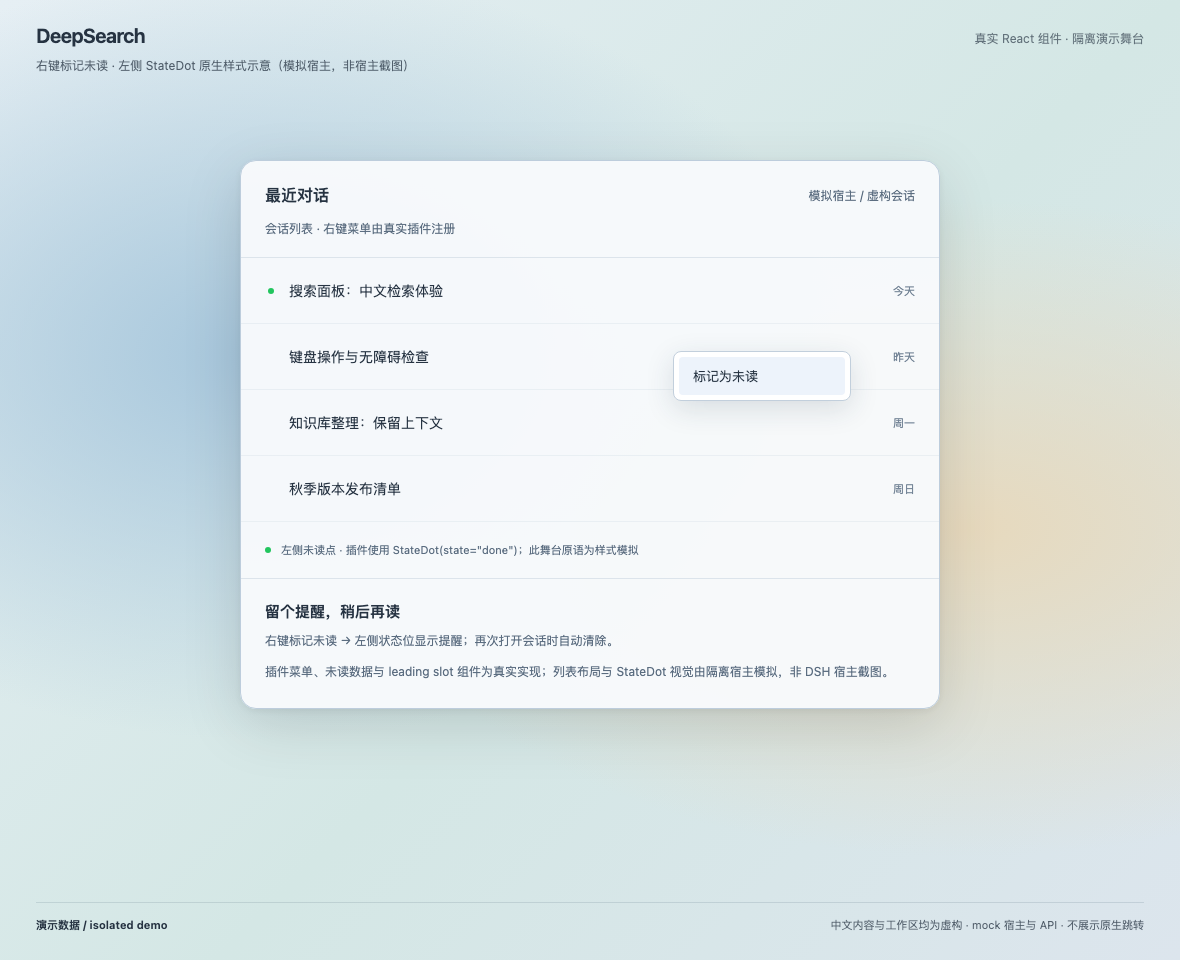
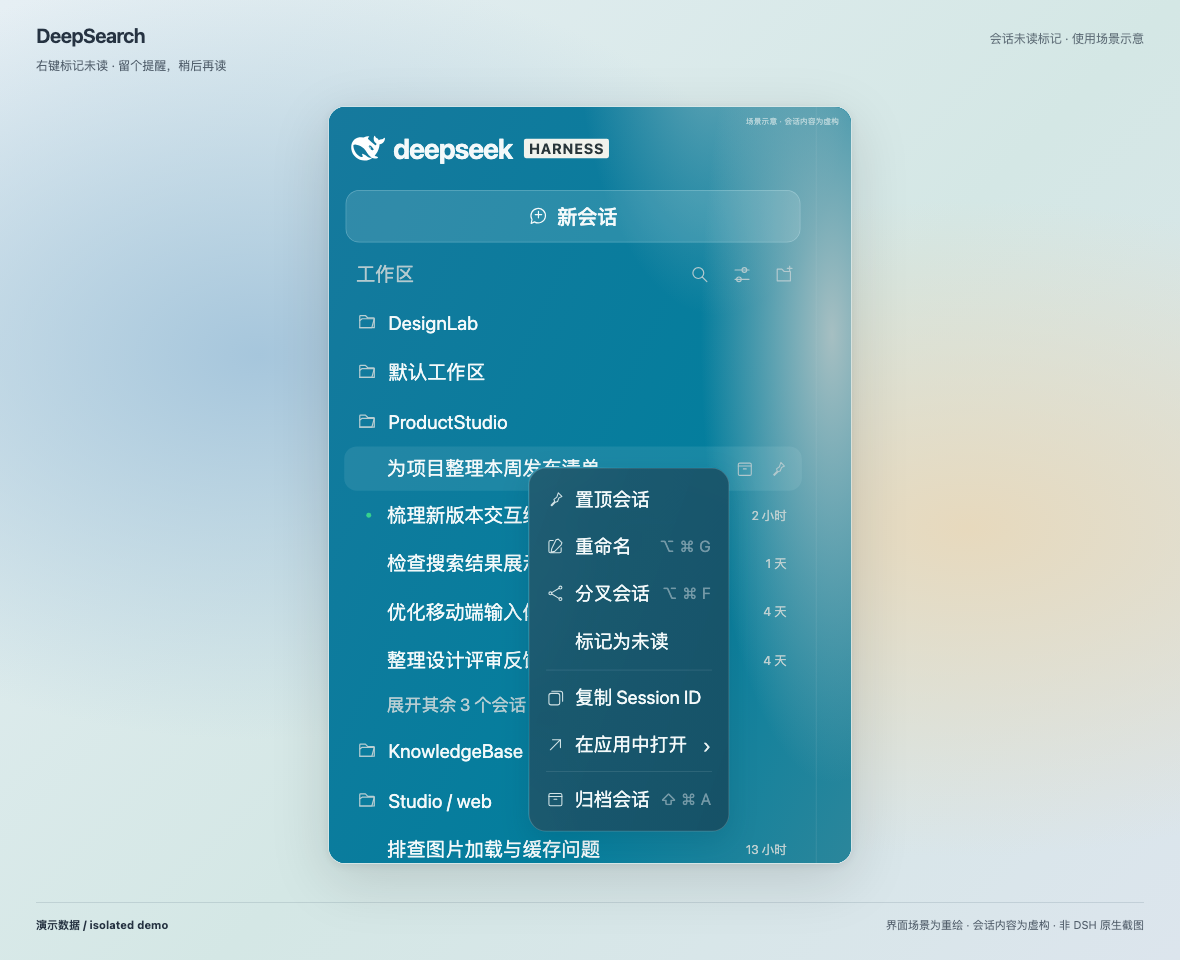
Refresh unread illustration within consistent feature card

diff --git a/scripts/demo/unread-card.html b/scripts/demo/unread-card.html
@@ -1,0 +1,5 @@
+<!doctype html><html lang="zh-CN"><meta charset="utf-8"><title>DeepSearch · 会话未读标记</title><style>
+*{box-sizing:border-box}html,body{margin:0;width:1180px;height:960px;overflow:hidden}body{font-family:-apple-system,BlinkMacSystemFont,"PingFang SC",sans-serif;color:#263342;background:radial-gradient(ellipse at 22% 37%,#a6c6dc 0,transparent 45%),radial-gradient(ellipse at 82% 55%,#e7d9bd 0,transparent 44%),linear-gradient(135deg,#e6eff4,#d4e7e5 55%,#dce5ed)}header{position:absolute;left:36px;right:36px;top:24px;display:flex;align-items:baseline;justify-content:space-between}h1{margin:0;font-size:20px;letter-spacing:-.5px;font-weight:650}header span{font-size:12px;opacity:.65}.caption{position:absolute;left:36px;top:57px;font-size:12px;opacity:.75}.frame{position:absolute;left:328px;top:106px;width:524px;height:758px;border-radius:17px;overflow:hidden;box-shadow:0 16px 60px #0002,0 2px 8px #0001;border:1px solid #d3e4e580}iframe{border:0;display:block;width:758px;height:1096px;transform:scale(.691292);transform-origin:top left;background:#087e9e}footer{position:absolute;left:36px;right:36px;bottom:25px;border-top:1px solid #637d8c35;padding-top:12px;display:flex;justify-content:space-between;font-size:11px;line-height:1.8}footer span{opacity:.75}
+</style><header><h1>DeepSearch</h1><span>会话未读标记 · 使用场景示意</span></header><div class="caption">右键标记未读 · 留个提醒，稍后再读</div><div class="frame"><iframe srcdoc="&lt;!doctype html>&lt;html lang=&quot;zh-CN&quot;>&lt;meta charset=&quot;utf-8&quot;>&lt;title>DeepSearch · 未读功能场景预览&lt;/title>&lt;style>
+*{box-sizing:border-box}html,body{margin:0;width:758px;height:1096px;overflow:hidden}body{font-family:-apple-system,BlinkMacSystemFont,'PingFang SC',sans-serif;color:#f3f9fa;background:#087e9e}svg{width:29px;height:29px;display:block}.scene{position:relative;width:758px;height:1096px;isolation:isolate;background:radial-gradient(ellipse 190px 650px at 96% 30%,#a6bfc2 0%,#a6bfc280 50%,transparent 100%),radial-gradient(ellipse 290px 620px at 74% -12%,#bfd0cf8c,transparent 70%),linear-gradient(115deg,#16799d,#037e9d 65%,#2b869b)}.scene:after{content:'';position:absolute;inset:0;z-index:-1;background:linear-gradient(90deg,transparent 92.8%,#c6d6d91c 93%,transparent 93.2%)}.brand{position:absolute;left:32px;top:35px;display:flex;align-items:center;gap:12px}.brand svg{width:49px;height:49px}.brandname{font-size:41px;font-weight:650;letter-spacing:-1.4px;line-height:1}.harness{font-size:21px;background:#f1f3ed;color:#29363a;border-radius:3px;padding:2px 7px;letter-spacing:1.5px;font-weight:700;margin-left:5px}.new{position:absolute;left:24px;top:120px;width:658px;height:76px;border-radius:20px;border:1px solid #e6faff45;background:#ecf8fa23;display:flex;gap:13px;align-items:center;justify-content:center;font-size:29px;font-weight:500}.new svg{width:28px;height:28px}.heading{position:absolute;top:222px;left:39px;right:86px;display:flex;align-items:center;justify-content:space-between;color:#b4cacf;font-size:28px}.tools{display:flex;gap:34px}.tools svg{width:27px;height:27px}.groups{position:absolute;top:275px;left:22px;width:662px}.folder{display:flex;align-items:center;height:72px;gap:17px;padding-left:19px;font-size:28px}.folder svg{color:#b8ced2;width:28px;height:28px}.session{height:70px;position:relative;display:flex;align-items:center;padding:0 22px 0 62px;font-size:28px;gap:12px;white-space:nowrap}.session>span{overflow:hidden;text-overflow:ellipsis;flex:1}.session small{font-size:18px;color:#bed0d1;font-weight:400;margin-left:auto}.session.selected{margin-top:0;height:64px;background:#d9f3f519;border-radius:18px}.actions{display:flex;gap:23px;align-items:center;color:#b1c8cd}.actions svg{width:25px;height:25px}.actions b{font-size:23px;font-weight:500;letter-spacing:1px}.dot{position:absolute;left:32px;top:32px;width:7px;height:7px;border-radius:100%;background:transparent}.unread .dot{background:#36d28d;box-shadow:0 0 2px #59e8a533}.more{height:60px;display:flex;align-items:center;padding-left:62px;font-size:25px;color:#b7ced3}.menu{position:absolute;left:289px;top:522px;width:290px;border:1px solid #aec6c94d;border-radius:25px;background:linear-gradient(110deg,#1e586de8,#174e63ed);backdrop-filter:blur(32px) saturate(1.1);box-shadow:0 14px 40px #003c542c;overflow:hidden;padding:10px 15px 12px}.menuitem{height:68px;display:flex;align-items:center;gap:16px;white-space:nowrap;position:relative;padding:0 10px;font-size:27px;font-weight:400}.menuitem>i{width:25px;flex-shrink:0;color:#d1e2e5}.menuitem svg{width:25px;height:25px}.menuitem kbd{font-family:inherit;font-size:23px;color:#a6bdc7a6;margin-left:auto;letter-spacing:1px}.menuitem.mark{height:72px}.sep{height:1px;margin:5px 9px;background:#b9d0d536}.arrow{font-size:30px;color:#e9f2f3;margin-left:auto;font-weight:300}.note{position:absolute;top:13px;right:20px;color:#d0e3e5;font-size:11px;letter-spacing:.3px;opacity:.8}
+&lt;/style>&lt;main class=&quot;scene&quot;>&lt;div class=&quot;brand&quot;>&lt;svg fill=&quot;#ffffff&quot; role=&quot;img&quot; viewBox=&quot;0 0 24 24&quot; xmlns=&quot;http://www.w3.org/2000/svg&quot;>&lt;title>DeepSeek&lt;/title>&lt;path d=&quot;M23.748 4.651c-.254-.124-.364.113-.512.233-.051.04-.094.09-.137.137-.372.397-.806.657-1.373.626-.829-.046-1.537.214-2.163.848-.133-.782-.575-1.248-1.247-1.548-.352-.155-.708-.311-.955-.65-.172-.24-.219-.509-.305-.774-.055-.16-.11-.323-.293-.35-.2-.031-.278.136-.356.276-.313.572-.434 1.202-.422 1.84.027 1.436.633 2.58 1.838 3.393.137.094.172.187.129.323-.082.28-.18.553-.266.833-.055.179-.137.218-.328.14a5.5 5.5 0 0 1-1.737-1.179c-.857-.828-1.631-1.743-2.597-2.46a12 12 0 0 0-.689-.47c-.985-.957.13-1.743.387-1.836.27-.098.094-.433-.778-.428-.872.003-1.67.295-2.687.685a3 3 0 0 1-.465.136 9.6 9.6 0 0 0-2.883-.101c-1.885.21-3.39 1.1-4.497 2.622C.082 8.776-.231 10.854.152 13.02c.403 2.284 1.568 4.175 3.36 5.653 1.857 1.533 3.997 2.284 6.438 2.14 1.482-.085 3.132-.284 4.994-1.86.47.234.962.328 1.78.398.629.058 1.235-.031 1.705-.129.735-.155.684-.836.418-.961-2.155-1.004-1.682-.595-2.112-.926 1.095-1.295 2.768-3.598 3.284-6.733.05-.346.115-.834.108-1.114-.004-.171.035-.238.23-.257a4.2 4.2 0 0 0 1.545-.475c1.397-.763 1.96-2.016 2.093-3.517.02-.23-.004-.467-.247-.588M11.58 18.168c-2.088-1.642-3.101-2.183-3.52-2.16-.39.024-.32.472-.234.763.09.288.207.487.371.74.114.167.192.416-.113.603-.673.416-1.842-.14-1.897-.168-1.361-.801-2.5-1.86-3.301-3.306-.775-1.393-1.225-2.888-1.299-4.482-.02-.385.094-.522.477-.592a4.7 4.7 0 0 1 1.53-.038c2.131.311 3.946 1.264 5.467 2.774.868.86 1.525 1.887 2.202 2.89.72 1.066 1.494 2.082 2.48 2.915.348.291.626.513.892.677-.802.09-2.14.109-3.055-.615zm1.001-6.44a.306.306 0 0 1 .415-.287.3.3 0 0 1 .113.074.3.3 0 0 1 .086.214c0 .17-.136.307-.308.307a.303.303 0 0 1-.306-.307m3.11 1.596c-.2.081-.4.151-.591.16a1.25 1.25 0 0 1-.798-.254c-.274-.23-.47-.358-.551-.758a1.7 1.7 0 0 1 .015-.588c.07-.327-.007-.537-.238-.727-.188-.156-.426-.199-.689-.199a.6.6 0 0 1-.254-.078.253.253 0 0 1-.114-.358 1 1 0 0 1 .192-.21c.356-.202.767-.136 1.146.016.352.144.618.408 1.001.782.392.451.462.576.685.915.176.264.336.536.446.848.066.194-.02.353-.25.45&quot;/>&lt;/svg>&lt;span class=&quot;brandname&quot;>deepseek&lt;/span>&lt;span class=&quot;harness&quot;>HARNESS&lt;/span>&lt;/div>&lt;div class=&quot;new&quot;>&lt;svg viewBox=&quot;0 0 24 24&quot; fill=&quot;none&quot; stroke=&quot;currentColor&quot; stroke-width=&quot;1.5&quot; stroke-linecap=&quot;round&quot; stroke-linejoin=&quot;round&quot;>&lt;path d=&quot;M7 19 3 21l1-5a9 9 0 1 1 3 3&quot;/>&lt;path d=&quot;M8 10h8M12 6v8&quot;/>&lt;/svg>&lt;span>新会话&lt;/span>&lt;/div>&lt;div class=&quot;heading&quot;>&lt;span>工作区&lt;/span>&lt;div class=&quot;tools&quot;>&lt;svg viewBox=&quot;0 0 24 24&quot; fill=&quot;none&quot; stroke=&quot;currentColor&quot; stroke-width=&quot;1.5&quot; stroke-linecap=&quot;round&quot; stroke-linejoin=&quot;round&quot;>&lt;circle cx=&quot;10&quot; cy=&quot;10&quot; r=&quot;7&quot;/>&lt;path d=&quot;m15 15 6 6&quot;/>&lt;/svg>&lt;svg viewBox=&quot;0 0 24 24&quot; fill=&quot;none&quot; stroke=&quot;currentColor&quot; stroke-width=&quot;1.5&quot; stroke-linecap=&quot;round&quot; stroke-linejoin=&quot;round&quot;>&lt;path d=&quot;M3 6h18M3 18h18&quot;/>&lt;circle cx=&quot;15&quot; cy=&quot;6&quot; r=&quot;3&quot;/>&lt;circle cx=&quot;8&quot; cy=&quot;18&quot; r=&quot;3&quot;/>&lt;/svg>&lt;svg viewBox=&quot;0 0 24 24&quot; fill=&quot;none&quot; stroke=&quot;currentColor&quot; stroke-width=&quot;1.5&quot; stroke-linecap=&quot;round&quot; stroke-linejoin=&quot;round&quot;>&lt;path d=&quot;M3 8V5h6l3 3h8v12H3zM19 1v6M16 4h6&quot;/>&lt;/svg>&lt;/div>&lt;/div>&lt;div class=&quot;groups&quot;>&lt;div class=&quot;folder&quot;>&lt;svg viewBox=&quot;0 0 24 24&quot; fill=&quot;none&quot; stroke=&quot;currentColor&quot; stroke-width=&quot;1.5&quot; stroke-linecap=&quot;round&quot; stroke-linejoin=&quot;round&quot;>&lt;path d=&quot;M3 7V5a1 1 0 0 1 1-1h6l3 3h7a1 1 0 0 1 1 1v11H3z&quot;/>&lt;path d=&quot;m3 10 3-2h15l-3 11H3&quot;/>&lt;/svg>DesignLab&lt;/div>&lt;div class=&quot;folder&quot;>&lt;svg viewBox=&quot;0 0 24 24&quot; fill=&quot;none&quot; stroke=&quot;currentColor&quot; stroke-width=&quot;1.5&quot; stroke-linecap=&quot;round&quot; stroke-linejoin=&quot;round&quot;>&lt;path d=&quot;M3 7V5a1 1 0 0 1 1-1h6l3 3h7a1 1 0 0 1 1 1v11H3z&quot;/>&lt;path d=&quot;m3 10 3-2h15l-3 11H3&quot;/>&lt;/svg>默认工作区&lt;/div>&lt;div class=&quot;folder&quot;>&lt;svg viewBox=&quot;0 0 24 24&quot; fill=&quot;none&quot; stroke=&quot;currentColor&quot; stroke-width=&quot;1.5&quot; stroke-linecap=&quot;round&quot; stroke-linejoin=&quot;round&quot;>&lt;path d=&quot;M3 7V5a1 1 0 0 1 1-1h6l3 3h7a1 1 0 0 1 1 1v11H3z&quot;/>&lt;path d=&quot;m3 10 3-2h15l-3 11H3&quot;/>&lt;/svg>ProductStudio&lt;/div>&lt;div class=&quot;session selected &quot;>&lt;i class=&quot;dot&quot;>&lt;/i>&lt;span>为项目整理本周发布清单&lt;/span>&lt;div class=&quot;actions&quot;>&lt;b>···&lt;/b>&lt;svg viewBox=&quot;0 0 24 24&quot; fill=&quot;none&quot; stroke=&quot;currentColor&quot; stroke-width=&quot;1.5&quot; stroke-linecap=&quot;round&quot; stroke-linejoin=&quot;round&quot;>&lt;rect x=&quot;3&quot; y=&quot;4&quot; width=&quot;18&quot; height=&quot;17&quot; rx=&quot;2&quot;/>&lt;path d=&quot;M3 8h18M10 12h4&quot;/>&lt;/svg>&lt;svg viewBox=&quot;0 0 24 24&quot; fill=&quot;none&quot; stroke=&quot;currentColor&quot; stroke-width=&quot;1.5&quot; stroke-linecap=&quot;round&quot; stroke-linejoin=&quot;round&quot;>&lt;path d=&quot;m16 3 5 5-4 2-2 5-3 1-5 5-1-1 5-5-1-3 4-3z&quot;/>&lt;/svg>&lt;/div>&lt;/div>&lt;div class=&quot;session  unread&quot;>&lt;i class=&quot;dot&quot;>&lt;/i>&lt;span>梳理新版本交互细节&lt;/span>&lt;small>2 小时&lt;/small>&lt;/div>&lt;div class=&quot;session  &quot;>&lt;i class=&quot;dot&quot;>&lt;/i>&lt;span>检查搜索结果展示逻辑&lt;/span>&lt;small>1 天&lt;/small>&lt;/div>&lt;div class=&quot;session  &quot;>&lt;i class=&quot;dot&quot;>&lt;/i>&lt;span>优化移动端输入体验&lt;/span>&lt;small>4 天&lt;/small>&lt;/div>&lt;div class=&quot;session  &quot;>&lt;i class=&quot;dot&quot;>&lt;/i>&lt;span>整理设计评审反馈&lt;/span>&lt;small>4 天&lt;/small>&lt;/div>&lt;div class=&quot;more&quot;>展开其余 3 个会话&lt;/div>&lt;div class=&quot;folder&quot;>&lt;svg viewBox=&quot;0 0 24 24&quot; fill=&quot;none&quot; stroke=&quot;currentColor&quot; stroke-width=&quot;1.5&quot; stroke-linecap=&quot;round&quot; stroke-linejoin=&quot;round&quot;>&lt;path d=&quot;M3 7V5a1 1 0 0 1 1-1h6l3 3h7a1 1 0 0 1 1 1v11H3z&quot;/>&lt;path d=&quot;m3 10 3-2h15l-3 11H3&quot;/>&lt;/svg>KnowledgeBase&lt;/div>&lt;div class=&quot;folder&quot;>&lt;svg viewBox=&quot;0 0 24 24&quot; fill=&quot;none&quot; stroke=&quot;currentColor&quot; stroke-width=&quot;1.5&quot; stroke-linecap=&quot;round&quot; stroke-linejoin=&quot;round&quot;>&lt;path d=&quot;M3 7V5a1 1 0 0 1 1-1h6l3 3h7a1 1 0 0 1 1 1v11H3z&quot;/>&lt;path d=&quot;m3 10 3-2h15l-3 11H3&quot;/>&lt;/svg>Studio / web&lt;/div>&lt;div class=&quot;session&quot;>&lt;span>排查图片加载与缓存问题&lt;/span>&lt;small>13 小时&lt;/small>&lt;/div>&lt;/div>&lt;div class=&quot;menu&quot;>&lt;div class=&quot;menuitem &quot;>&lt;i>&lt;svg viewBox=&quot;0 0 24 24&quot; fill=&quot;none&quot; stroke=&quot;currentColor&quot; stroke-width=&quot;1.5&quot; stroke-linecap=&quot;round&quot; stroke-linejoin=&quot;round&quot;>&lt;path d=&quot;m16 3 5 5-4 2-2 5-3 1-5 5-1-1 5-5-1-3 4-3z&quot;/>&lt;/svg>&lt;/i>&lt;span>置顶会话&lt;/span>&lt;/div>&lt;div class=&quot;menuitem &quot;>&lt;i>&lt;svg viewBox=&quot;0 0 24 24&quot; fill=&quot;none&quot; stroke=&quot;currentColor&quot; stroke-width=&quot;1.5&quot; stroke-linecap=&quot;round&quot; stroke-linejoin=&quot;round&quot;>&lt;path d=&quot;M9 4H5a2 2 0 0 0-2 2v13a2 2 0 0 0 2 2h13a2 2 0 0 0 2-2v-5M13 3l3-1 5 5-1 3-9 9-5 1 1-5z&quot;/>&lt;/svg>&lt;/i>&lt;span>重命名&lt;/span>&lt;kbd>⌥ ⌘ G&lt;/kbd>&lt;/div>&lt;div class=&quot;menuitem &quot;>&lt;i>&lt;svg viewBox=&quot;0 0 24 24&quot; fill=&quot;none&quot; stroke=&quot;currentColor&quot; stroke-width=&quot;1.5&quot; stroke-linecap=&quot;round&quot; stroke-linejoin=&quot;round&quot;>&lt;circle cx=&quot;5&quot; cy=&quot;12&quot; r=&quot;2&quot;/>&lt;circle cx=&quot;19&quot; cy=&quot;4&quot; r=&quot;2&quot;/>&lt;circle cx=&quot;19&quot; cy=&quot;20&quot; r=&quot;2&quot;/>&lt;path d=&quot;m7 11 10-6M7 13l10 6&quot;/>&lt;/svg>&lt;/i>&lt;span>分叉会话&lt;/span>&lt;kbd>⌥ ⌘ F&lt;/kbd>&lt;/div>&lt;div class=&quot;menuitem mark&quot;>&lt;i>&lt;/i>&lt;span>标记为未读&lt;/span>&lt;/div>&lt;div class=&quot;sep&quot;>&lt;/div>&lt;div class=&quot;menuitem &quot;>&lt;i>&lt;svg viewBox=&quot;0 0 24 24&quot; fill=&quot;none&quot; stroke=&quot;currentColor&quot; stroke-width=&quot;1.5&quot; stroke-linecap=&quot;round&quot; stroke-linejoin=&quot;round&quot;>&lt;rect x=&quot;3&quot; y=&quot;6&quot; width=&quot;15&quot; height=&quot;16&quot; rx=&quot;3&quot;/>&lt;path d=&quot;M7 3h12a3 3 0 0 1 3 3v11&quot;/>&lt;/svg>&lt;/i>&lt;span>复制 Session ID&lt;/span>&lt;/div>&lt;div class=&quot;menuitem&quot;>&lt;i>&lt;svg viewBox=&quot;0 0 24 24&quot; fill=&quot;none&quot; stroke=&quot;currentColor&quot; stroke-width=&quot;1.5&quot; stroke-linecap=&quot;round&quot; stroke-linejoin=&quot;round&quot;>&lt;path d=&quot;M5 19 19 5M8 5h11v11&quot;/>&lt;/svg>&lt;/i>&lt;span>在应用中打开&lt;/span>&lt;span class=&quot;arrow&quot;>›&lt;/span>&lt;/div>&lt;div class=&quot;sep&quot;>&lt;/div>&lt;div class=&quot;menuitem &quot;>&lt;i>&lt;svg viewBox=&quot;0 0 24 24&quot; fill=&quot;none&quot; stroke=&quot;currentColor&quot; stroke-width=&quot;1.5&quot; stroke-linecap=&quot;round&quot; stroke-linejoin=&quot;round&quot;>&lt;rect x=&quot;3&quot; y=&quot;4&quot; width=&quot;18&quot; height=&quot;17&quot; rx=&quot;2&quot;/>&lt;path d=&quot;M3 8h18M10 12h4&quot;/>&lt;/svg>&lt;/i>&lt;span>归档会话&lt;/span>&lt;kbd>⇧ ⌘ A&lt;/kbd>&lt;/div>&lt;/div>&lt;div class=&quot;note&quot;>场景示意 · 会话内容为虚构&lt;/div>&lt;/main>&lt;/html>" title="DSH 侧边栏与完整右键菜单的重绘场景"></iframe></div><footer><strong>演示数据 / isolated demo</strong><span>界面场景为重绘 · 会话内容为虚构 · 非 DSH 原生截图</span></footer></html>

diff --git a/scripts/demo/unread-scene.html b/scripts/demo/unread-scene.html
@@ -1,0 +1,3 @@
+<!doctype html><html lang="zh-CN"><meta charset="utf-8"><title>DeepSearch · 未读功能场景预览</title><style>
+*{box-sizing:border-box}html,body{margin:0;width:758px;height:1096px;overflow:hidden}body{font-family:-apple-system,BlinkMacSystemFont,'PingFang SC',sans-serif;color:#f3f9fa;background:#087e9e}svg{width:29px;height:29px;display:block}.scene{position:relative;width:758px;height:1096px;isolation:isolate;background:radial-gradient(ellipse 190px 650px at 96% 30%,#a6bfc2 0%,#a6bfc280 50%,transparent 100%),radial-gradient(ellipse 290px 620px at 74% -12%,#bfd0cf8c,transparent 70%),linear-gradient(115deg,#16799d,#037e9d 65%,#2b869b)}.scene:after{content:'';position:absolute;inset:0;z-index:-1;background:linear-gradient(90deg,transparent 92.8%,#c6d6d91c 93%,transparent 93.2%)}.brand{position:absolute;left:32px;top:35px;display:flex;align-items:center;gap:12px}.brand svg{width:49px;height:49px}.brandname{font-size:41px;font-weight:650;letter-spacing:-1.4px;line-height:1}.harness{font-size:21px;background:#f1f3ed;color:#29363a;border-radius:3px;padding:2px 7px;letter-spacing:1.5px;font-weight:700;margin-left:5px}.new{position:absolute;left:24px;top:120px;width:658px;height:76px;border-radius:20px;border:1px solid #e6faff45;background:#ecf8fa23;display:flex;gap:13px;align-items:center;justify-content:center;font-size:29px;font-weight:500}.new svg{width:28px;height:28px}.heading{position:absolute;top:222px;left:39px;right:86px;display:flex;align-items:center;justify-content:space-between;color:#b4cacf;font-size:28px}.tools{display:flex;gap:34px}.tools svg{width:27px;height:27px}.groups{position:absolute;top:275px;left:22px;width:662px}.folder{display:flex;align-items:center;height:72px;gap:17px;padding-left:19px;font-size:28px}.folder svg{color:#b8ced2;width:28px;height:28px}.session{height:70px;position:relative;display:flex;align-items:center;padding:0 22px 0 62px;font-size:28px;gap:12px;white-space:nowrap}.session>span{overflow:hidden;text-overflow:ellipsis;flex:1}.session small{font-size:18px;color:#bed0d1;font-weight:400;margin-left:auto}.session.selected{margin-top:0;height:64px;background:#d9f3f519;border-radius:18px}.actions{display:flex;gap:23px;align-items:center;color:#b1c8cd}.actions svg{width:25px;height:25px}.actions b{font-size:23px;font-weight:500;letter-spacing:1px}.dot{position:absolute;left:32px;top:32px;width:7px;height:7px;border-radius:100%;background:transparent}.unread .dot{background:#36d28d;box-shadow:0 0 2px #59e8a533}.more{height:60px;display:flex;align-items:center;padding-left:62px;font-size:25px;color:#b7ced3}.menu{position:absolute;left:289px;top:522px;width:290px;border:1px solid #aec6c94d;border-radius:25px;background:linear-gradient(110deg,#1e586de8,#174e63ed);backdrop-filter:blur(32px) saturate(1.1);box-shadow:0 14px 40px #003c542c;overflow:hidden;padding:10px 15px 12px}.menuitem{height:68px;display:flex;align-items:center;gap:16px;white-space:nowrap;position:relative;padding:0 10px;font-size:27px;font-weight:400}.menuitem>i{width:25px;flex-shrink:0;color:#d1e2e5}.menuitem svg{width:25px;height:25px}.menuitem kbd{font-family:inherit;font-size:23px;color:#a6bdc7a6;margin-left:auto;letter-spacing:1px}.menuitem.mark{height:72px}.sep{height:1px;margin:5px 9px;background:#b9d0d536}.arrow{font-size:30px;color:#e9f2f3;margin-left:auto;font-weight:300}.note{position:absolute;top:13px;right:20px;color:#d0e3e5;font-size:11px;letter-spacing:.3px;opacity:.8}
+</style><main class="scene"><div class="brand"><svg fill="#ffffff" role="img" viewBox="0 0 24 24" xmlns="http://www.w3.org/2000/svg"><title>DeepSeek</title><path d="M23.748 4.651c-.254-.124-.364.113-.512.233-.051.04-.094.09-.137.137-.372.397-.806.657-1.373.626-.829-.046-1.537.214-2.163.848-.133-.782-.575-1.248-1.247-1.548-.352-.155-.708-.311-.955-.65-.172-.24-.219-.509-.305-.774-.055-.16-.11-.323-.293-.35-.2-.031-.278.136-.356.276-.313.572-.434 1.202-.422 1.84.027 1.436.633 2.58 1.838 3.393.137.094.172.187.129.323-.082.28-.18.553-.266.833-.055.179-.137.218-.328.14a5.5 5.5 0 0 1-1.737-1.179c-.857-.828-1.631-1.743-2.597-2.46a12 12 0 0 0-.689-.47c-.985-.957.13-1.743.387-1.836.27-.098.094-.433-.778-.428-.872.003-1.67.295-2.687.685a3 3 0 0 1-.465.136 9.6 9.6 0 0 0-2.883-.101c-1.885.21-3.39 1.1-4.497 2.622C.082 8.776-.231 10.854.152 13.02c.403 2.284 1.568 4.175 3.36 5.653 1.857 1.533 3.997 2.284 6.438 2.14 1.482-.085 3.132-.284 4.994-1.86.47.234.962.328 1.78.398.629.058 1.235-.031 1.705-.129.735-.155.684-.836.418-.961-2.155-1.004-1.682-.595-2.112-.926 1.095-1.295 2.768-3.598 3.284-6.733.05-.346.115-.834.108-1.114-.004-.171.035-.238.23-.257a4.2 4.2 0 0 0 1.545-.475c1.397-.763 1.96-2.016 2.093-3.517.02-.23-.004-.467-.247-.588M11.58 18.168c-2.088-1.642-3.101-2.183-3.52-2.16-.39.024-.32.472-.234.763.09.288.207.487.371.74.114.167.192.416-.113.603-.673.416-1.842-.14-1.897-.168-1.361-.801-2.5-1.86-3.301-3.306-.775-1.393-1.225-2.888-1.299-4.482-.02-.385.094-.522.477-.592a4.7 4.7 0 0 1 1.53-.038c2.131.311 3.946 1.264 5.467 2.774.868.86 1.525 1.887 2.202 2.89.72 1.066 1.494 2.082 2.48 2.915.348.291.626.513.892.677-.802.09-2.14.109-3.055-.615zm1.001-6.44a.306.306 0 0 1 .415-.287.3.3 0 0 1 .113.074.3.3 0 0 1 .086.214c0 .17-.136.307-.308.307a.303.303 0 0 1-.306-.307m3.11 1.596c-.2.081-.4.151-.591.16a1.25 1.25 0 0 1-.798-.254c-.274-.23-.47-.358-.551-.758a1.7 1.7 0 0 1 .015-.588c.07-.327-.007-.537-.238-.727-.188-.156-.426-.199-.689-.199a.6.6 0 0 1-.254-.078.253.253 0 0 1-.114-.358 1 1 0 0 1 .192-.21c.356-.202.767-.136 1.146.016.352.144.618.408 1.001.782.392.451.462.576.685.915.176.264.336.536.446.848.066.194-.02.353-.25.45"/></svg><span class="brandname">deepseek</span><span class="harness">HARNESS</span></div><div class="new"><svg viewBox="0 0 24 24" fill="none" stroke="currentColor" stroke-width="1.5" stroke-linecap="round" stroke-linejoin="round"><path d="M7 19 3 21l1-5a9 9 0 1 1 3 3"/><path d="M8 10h8M12 6v8"/></svg><span>新会话</span></div><div class="heading"><span>工作区</span><div class="tools"><svg viewBox="0 0 24 24" fill="none" stroke="currentColor" stroke-width="1.5" stroke-linecap="round" stroke-linejoin="round"><circle cx="10" cy="10" r="7"/><path d="m15 15 6 6"/></svg><svg viewBox="0 0 24 24" fill="none" stroke="currentColor" stroke-width="1.5" stroke-linecap="round" stroke-linejoin="round"><path d="M3 6h18M3 18h18"/><circle cx="15" cy="6" r="3"/><circle cx="8" cy="18" r="3"/></svg><svg viewBox="0 0 24 24" fill="none" stroke="currentColor" stroke-width="1.5" stroke-linecap="round" stroke-linejoin="round"><path d="M3 8V5h6l3 3h8v12H3zM19 1v6M16 4h6"/></svg></div></div><div class="groups"><div class="folder"><svg viewBox="0 0 24 24" fill="none" stroke="currentColor" stroke-width="1.5" stroke-linecap="round" stroke-linejoin="round"><path d="M3 7V5a1 1 0 0 1 1-1h6l3 3h7a1 1 0 0 1 1 1v11H3z"/><path d="m3 10 3-2h15l-3 11H3"/></svg>DesignLab</div><div class="folder"><svg viewBox="0 0 24 24" fill="none" stroke="currentColor" stroke-width="1.5" stroke-linecap="round" stroke-linejoin="round"><path d="M3 7V5a1 1 0 0 1 1-1h6l3 3h7a1 1 0 0 1 1 1v11H3z"/><path d="m3 10 3-2h15l-3 11H3"/></svg>默认工作区</div><div class="folder"><svg viewBox="0 0 24 24" fill="none" stroke="currentColor" stroke-width="1.5" stroke-linecap="round" stroke-linejoin="round"><path d="M3 7V5a1 1 0 0 1 1-1h6l3 3h7a1 1 0 0 1 1 1v11H3z"/><path d="m3 10 3-2h15l-3 11H3"/></svg>ProductStudio</div><div class="session selected "><i class="dot"></i><span>为项目整理本周发布清单</span><div class="actions"><b>···</b><svg viewBox="0 0 24 24" fill="none" stroke="currentColor" stroke-width="1.5" stroke-linecap="round" stroke-linejoin="round"><rect x="3" y="4" width="18" height="17" rx="2"/><path d="M3 8h18M10 12h4"/></svg><svg viewBox="0 0 24 24" fill="none" stroke="currentColor" stroke-width="1.5" stroke-linecap="round" stroke-linejoin="round"><path d="m16 3 5 5-4 2-2 5-3 1-5 5-1-1 5-5-1-3 4-3z"/></svg></div></div><div class="session  unread"><i class="dot"></i><span>梳理新版本交互细节</span><small>2 小时</small></div><div class="session  "><i class="dot"></i><span>检查搜索结果展示逻辑</span><small>1 天</small></div><div class="session  "><i class="dot"></i><span>优化移动端输入体验</span><small>4 天</small></div><div class="session  "><i class="dot"></i><span>整理设计评审反馈</span><small>4 天</small></div><div class="more">展开其余 3 个会话</div><div class="folder"><svg viewBox="0 0 24 24" fill="none" stroke="currentColor" stroke-width="1.5" stroke-linecap="round" stroke-linejoin="round"><path d="M3 7V5a1 1 0 0 1 1-1h6l3 3h7a1 1 0 0 1 1 1v11H3z"/><path d="m3 10 3-2h15l-3 11H3"/></svg>KnowledgeBase</div><div class="folder"><svg viewBox="0 0 24 24" fill="none" stroke="currentColor" stroke-width="1.5" stroke-linecap="round" stroke-linejoin="round"><path d="M3 7V5a1 1 0 0 1 1-1h6l3 3h7a1 1 0 0 1 1 1v11H3z"/><path d="m3 10 3-2h15l-3 11H3"/></svg>Studio / web</div><div class="session"><span>排查图片加载与缓存问题</span><small>13 小时</small></div></div><div class="menu"><div class="menuitem "><i><svg viewBox="0 0 24 24" fill="none" stroke="currentColor" stroke-width="1.5" stroke-linecap="round" stroke-linejoin="round"><path d="m16 3 5 5-4 2-2 5-3 1-5 5-1-1 5-5-1-3 4-3z"/></svg></i><span>置顶会话</span></div><div class="menuitem "><i><svg viewBox="0 0 24 24" fill="none" stroke="currentColor" stroke-width="1.5" stroke-linecap="round" stroke-linejoin="round"><path d="M9 4H5a2 2 0 0 0-2 2v13a2 2 0 0 0 2 2h13a2 2 0 0 0 2-2v-5M13 3l3-1 5 5-1 3-9 9-5 1 1-5z"/></svg></i><span>重命名</span><kbd>⌥ ⌘ G</kbd></div><div class="menuitem "><i><svg viewBox="0 0 24 24" fill="none" stroke="currentColor" stroke-width="1.5" stroke-linecap="round" stroke-linejoin="round"><circle cx="5" cy="12" r="2"/><circle cx="19" cy="4" r="2"/><circle cx="19" cy="20" r="2"/><path d="m7 11 10-6M7 13l10 6"/></svg></i><span>分叉会话</span><kbd>⌥ ⌘ F</kbd></div><div class="menuitem mark"><i></i><span>标记为未读</span></div><div class="sep"></div><div class="menuitem "><i><svg viewBox="0 0 24 24" fill="none" stroke="currentColor" stroke-width="1.5" stroke-linecap="round" stroke-linejoin="round"><rect x="3" y="6" width="15" height="16" rx="3"/><path d="M7 3h12a3 3 0 0 1 3 3v11"/></svg></i><span>复制 Session ID</span></div><div class="menuitem"><i><svg viewBox="0 0 24 24" fill="none" stroke="currentColor" stroke-width="1.5" stroke-linecap="round" stroke-linejoin="round"><path d="M5 19 19 5M8 5h11v11"/></svg></i><span>在应用中打开</span><span class="arrow">›</span></div><div class="sep"></div><div class="menuitem "><i><svg viewBox="0 0 24 24" fill="none" stroke="currentColor" stroke-width="1.5" stroke-linecap="round" stroke-linejoin="round"><rect x="3" y="4" width="18" height="17" rx="2"/><path d="M3 8h18M10 12h4"/></svg></i><span>归档会话</span><kbd>⇧ ⌘ A</kbd></div></div><div class="note">场景示意 · 会话内容为虚构</div></main></html>

diff --git a/README.en.md b/README.en.md
@@ -14,7 +14,7 @@ A local full-text search plugin for **DeepSeek Harness**. Find a conversation fr
 
 ## Feature Preview
 
-These images use the **actual plugin components in an isolated mock host with fictional demo data**. They are not screenshots of your chats or the native DSH conversation page. Native message navigation must be verified in the real host; the demo does not simulate successful navigation. The screenshots show the Chinese UI; this English README does not change the plugin's interface language.
+Except for the explicitly labeled sidebar illustration, these images use the **actual plugin components in an isolated mock host with fictional demo data**. They are not screenshots of your chats or the native DSH conversation page. Native message navigation must be verified in the real host; the demo does not simulate successful navigation. The screenshots show the Chinese UI; this English README does not change the plugin's interface language.
 
 ### Full-text search, highlighted snippets, and message timestamps
 
@@ -38,11 +38,11 @@ These images use the **actual plugin components in an isolated mock host with fi
 
 ### Optional extension: manual unread
 
-Enable it in Settings, then mark a sidebar conversation unread/read from its context menu. Re-entering the conversation clears the mark. Preferences and marks remain local to this client. The sidebar, menu frame and status-dot primitive below are mocked host scaffolding; the switch and unread menu logic come from the actual plugin.
+Enable it in Settings, then mark a sidebar conversation unread/read from its context menu. Re-entering the conversation clears the mark. Preferences and marks remain local to this client. The settings image uses the actual plugin component. The context-menu image places a faithful fictional sidebar illustration inside the matching feature-card frame; it is not a native screenshot or runtime-verification evidence.
 
 ![Enable manual unread in Settings](https://raw.githubusercontent.com/luorenyu/dsh-deepsearch/v0.1.16/docs/images/07-unread-settings.png)
 
-![Session context menu and leading unread indicator demonstration](https://raw.githubusercontent.com/luorenyu/dsh-deepsearch/v0.1.16/docs/images/08-unread-menu.png)
+![Session context menu and leading unread indicator demonstration](https://raw.githubusercontent.com/luorenyu/dsh-deepsearch/v0.1.16-docs.1/docs/images/08-unread-menu.png)
 
 ## Installation
 
@@ -50,7 +50,7 @@ The verified host is **DSH Desktop 0.2.2-rc.3**. Other versions and platforms ha
 
 ### Install from npm (recommended)
 
-The public package is [@renyuluo/dsh-deepsearch](https://www.npmjs.com/package/@renyuluo/dsh-deepsearch), currently **0.1.16**. Registry availability, package integrity, and installation in a clean directory have been verified.
+The public package is [@renyuluo/dsh-deepsearch](https://www.npmjs.com/package/@renyuluo/dsh-deepsearch). **0.1.16 has passed packaging and local installation checks, but npm publication is awaiting account two-factor authentication**; npm latest is currently 0.1.13.
 
 ```sh
 dsh plugin --profile desktop add @renyuluo/dsh-deepsearch
@@ -81,7 +81,7 @@ dsh plugin --profile desktop add @renyuluo/dsh-deepsearch
 
 This migration applies only to this project's old installation; it is not a recommendation to remove another author's similarly named plugin. The appearance storage key is unchanged, so existing preferences are preserved on the same host page origin.
 
-Search and appearance screenshots were originally captured with the 0.1.12 demo components. Manual-unread screenshots use the actual 0.1.16 plugin components in an isolated mock host. Version 0.1.16 also includes confirmed archive restoration and the hover-scrolling fix.
+Search and appearance screenshots were originally captured with the 0.1.12 demo components. The manual-unread settings screenshot uses the actual 0.1.16 plugin component in an isolated mock host; the menu scene is a fictional illustration. Version 0.1.16 also includes confirmed archive restoration and the hover-scrolling fix.
 
 ### Discover it in the DSH plugin marketplace
 

diff --git a/README.md b/README.md
@@ -14,7 +14,7 @@
 
 ## 功能预览
 
-以下图片使用**真实插件组件 + 隔离模拟宿主 + 虚构演示数据**生成，并非你的聊天记录或 DSH 原生页面截图。原生消息跳转需在真实宿主中验证，演示页不模拟“定位成功”。
+除特别标注的侧边栏重绘示意外，以下图片使用**真实插件组件 + 隔离模拟宿主 + 虚构演示数据**生成；均非你的聊天记录或 DSH 原生页面截图。原生消息跳转需在真实宿主中验证，演示页不模拟“定位成功”。
 
 ### 全文搜索、命中摘要与准确时间
 
@@ -38,11 +38,11 @@
 
 ### 扩展小功能：手动未读
 
-在设置中开启后，通过侧栏右键菜单标记未读 / 已读；再次进入会话自动清除。标记和开关仅保存在本机。下图的侧栏、菜单框架和状态点为模拟宿主，开关与未读菜单逻辑来自真实插件。
+在设置中开启后，通过侧栏右键菜单标记未读 / 已读；再次进入会话自动清除。标记和开关仅保存在本机。设置图来自真实插件组件；右键菜单图使用高还原侧边栏重绘，嵌入统一功能卡片。重绘图不是原生截图或运行验证证据。
 
 ![设置中开启会话未读标记](https://raw.githubusercontent.com/luorenyu/dsh-deepsearch/v0.1.16/docs/images/07-unread-settings.png)
 
-![右键菜单标记未读与左侧状态点示意](https://raw.githubusercontent.com/luorenyu/dsh-deepsearch/v0.1.16/docs/images/08-unread-menu.png)
+![右键菜单标记未读与左侧状态点示意](https://raw.githubusercontent.com/luorenyu/dsh-deepsearch/v0.1.16-docs.1/docs/images/08-unread-menu.png)
 
 ## 安装
 
@@ -50,7 +50,7 @@
 
 ### 从 npm 安装（推荐）
 
-已公开发布 [@renyuluo/dsh-deepsearch](https://www.npmjs.com/package/@renyuluo/dsh-deepsearch)，当前版本 **0.1.16**。已验证 npm registry 查询、发布校验值及全新目录安装。
+公开包名为 [@renyuluo/dsh-deepsearch](https://www.npmjs.com/package/@renyuluo/dsh-deepsearch)。**0.1.16 已完成打包和本地安装验证，npm 发布尚待账号双重验证**；当前 npm latest 为 0.1.13。
 
 ```sh
 dsh plugin --profile desktop add @renyuluo/dsh-deepsearch
@@ -81,7 +81,7 @@ dsh plugin --profile desktop add @renyuluo/dsh-deepsearch
 
 这是替换本项目旧安装条目，不是建议卸载其他作者的同名插件。外观存储键保持不变；同一宿主页面来源下已有偏好会继续使用。
 
-全文搜索及外观截图最初来自 0.1.12 演示组件；手动未读截图由 0.1.16 的真实插件组件在隔离模拟宿主中生成。0.1.16 同时包含归档恢复确认与鼠标悬浮滚动修复。
+全文搜索及外观截图最初来自 0.1.12 演示组件；手动未读设置图由 0.1.16 的真实插件组件在隔离模拟宿主中生成；菜单场景图为虚构内容重绘。0.1.16 同时包含归档恢复确认与鼠标悬浮滚动修复。
 
 ### 在 DSH 插件市场中发现
 

diff --git a/scripts/demo/README.md b/scripts/demo/README.md
@@ -34,7 +34,7 @@ The isolated host intentionally rejects native session navigation. Only project 
 5. `05-theme.png`: actual 跟随 DSH controls with mocked dark host tokens.
 6. `06-custom.png`: actual custom color, opacity and blur controls.
 7. `07-unread-settings.png`: actual 设置 / 会话未读标记 switch, enabled through a browser click.
-8. `08-unread-menu.png`: actual plugin context-menu resolver/action and registered leading-slot component. One invented row is marked unread; a second row has the 标记为未读 menu open. Sidebar/menu framing and StateDot visual are mocked and explicitly disclosed in the image.
+8. `08-unread-menu.png`: approved fictional sidebar illustration inside the same feature-card frame as the other images. Re-render with `node scripts/render-unread-card.mjs`. This image is not component/runtime evidence. The separate `component-unread-evidence.png` preserves the actual plugin menu/leading-slot mock-host capture used for behavioral checks. Scene source: `unread-scene.html`; the card embeds that scene as srcdoc in `unread-card.html`.
 
 The capture also exercises 标记为已读, marks the fictional row again, and clicks it to simulate a `mainView` re-entry. The actual plugin subscription clears its persisted mark and unmounts the leading dot. This is a mocked host transition, not proof of native host navigation.
 

diff --git a/docs/release-0.1.16-verification.md b/docs/release-0.1.16-verification.md
@@ -5,5 +5,5 @@
 - Release contracts assert versioned backend export, package allowlist, backend/core cache-busting query, and matching client footer.
 - A clean consumer installation of the prepared tarball imported the backend and both localized metadata files successfully. Final published registry integrity and clean installation are checked during publication.
 - Manual unread and hover behavior were previously verified in DSH Desktop 0.2.2-rc.3: native left-side dot, mark/read menu, persistence after refresh, clearing on re-entry, hover without scroll and keyboard scrolling. Real user archive restoration was not performed.
-- Documentation images use fictional data and an isolated mock host. Mocked host primitives, menu framing and sidebar scaffolding are not evidence of native-host integration.
+- Documentation images use fictional data. The settings capture uses an isolated mock host; the revised menu card is an approved sidebar illustration, not component or native-host evidence. The earlier component capture is retained separately as component-unread-evidence.png.
 - Local preference keys and scoped package identity remain unchanged. This release does not upload messages, synchronize unread state across devices or change native completion reminders.
